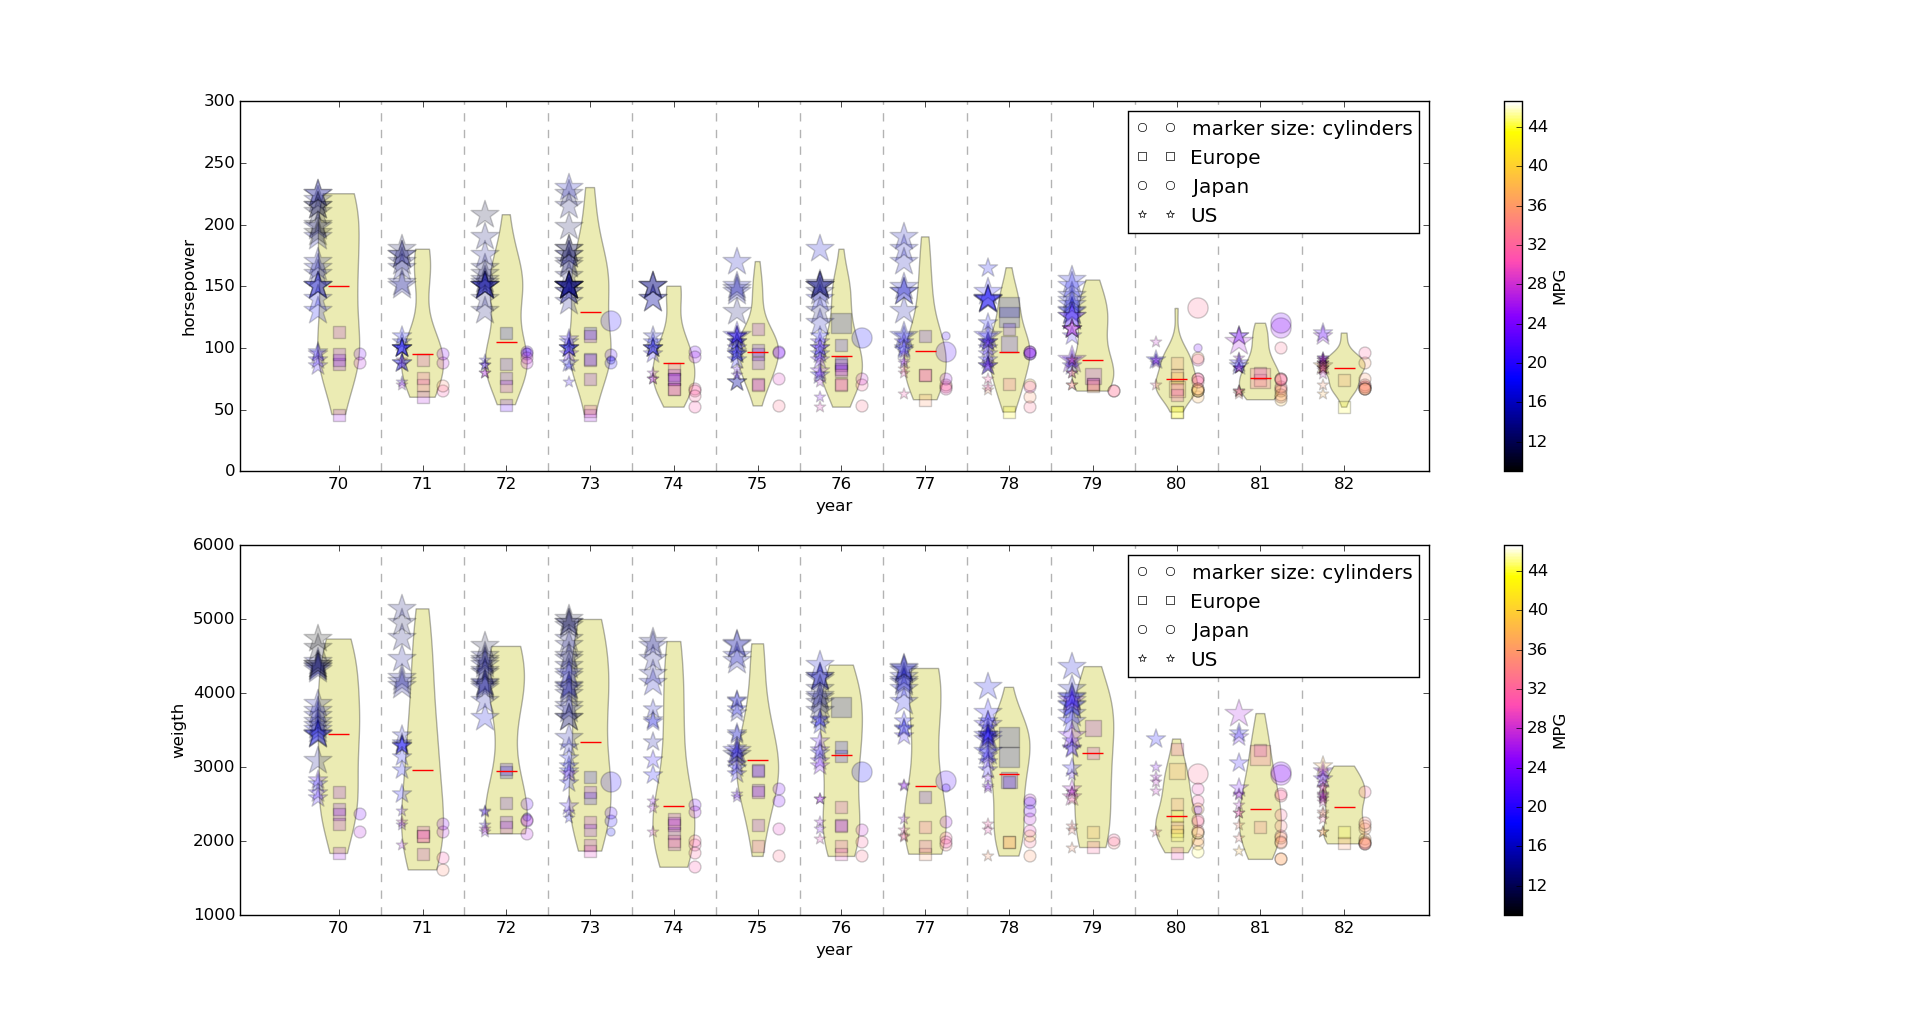
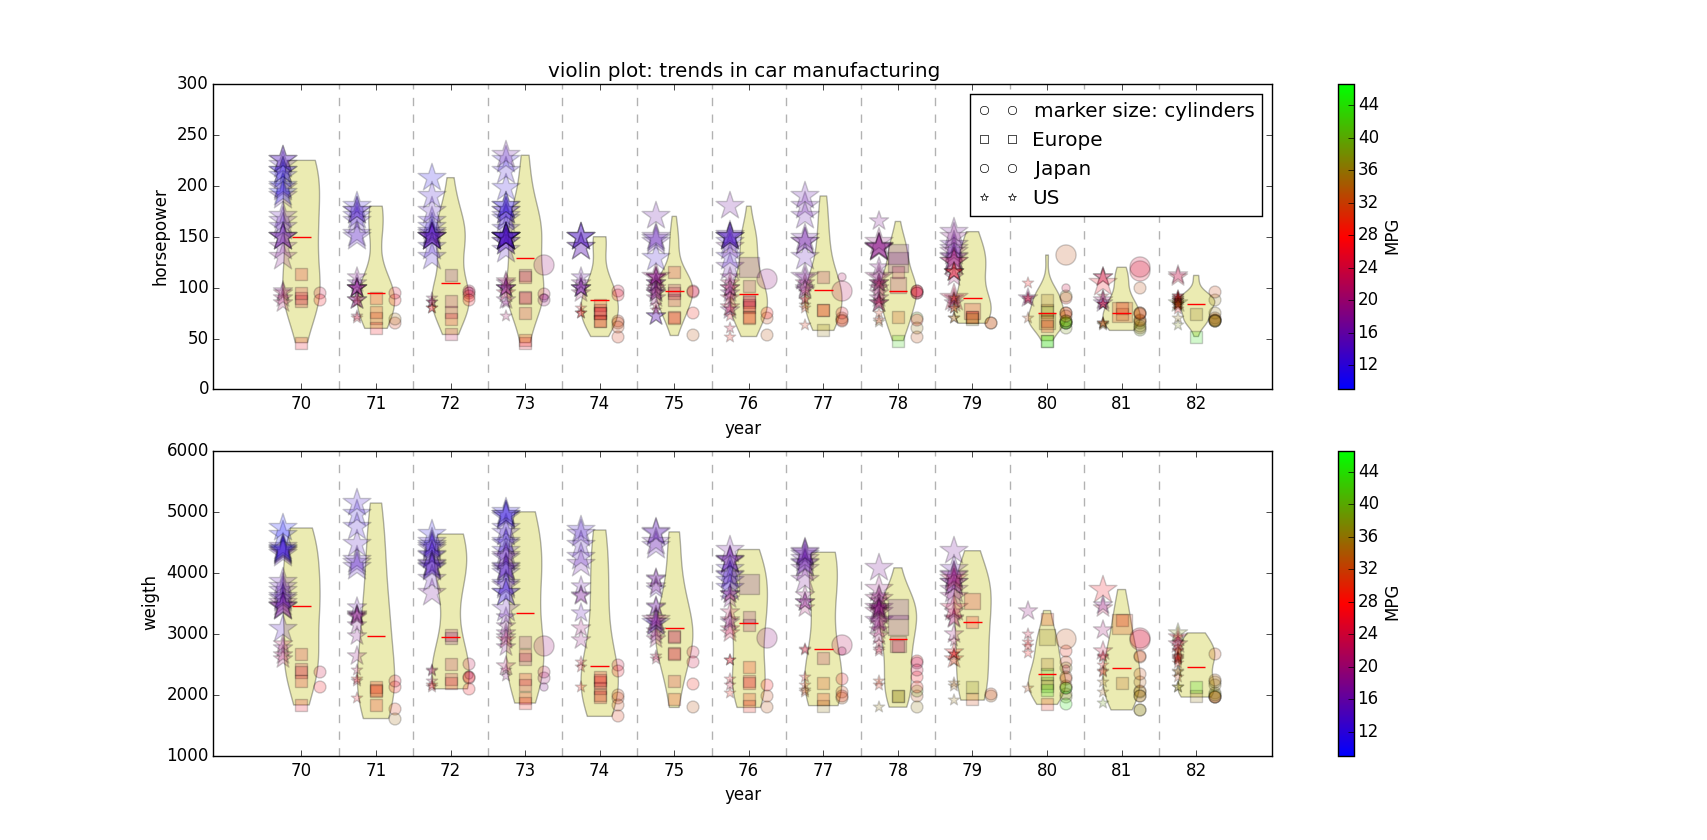
last changes

diff --git a/vis_2d_split_violin.py b/vis_2d_split_violin.py
@@ -6,7 +6,7 @@ import pylab
 import matplotlib.pyplot as plt
 import matplotlib.patches as mpatches
 
-cmap=plt.get_cmap('gnuplot2')
+cmap=plt.get_cmap('brg')
 
 def normalize(m):
     _min = np.min(m)
@@ -48,7 +48,10 @@ def show(df):
     info("show")
     
     fig = plt.figure()
+    
     axs = [ fig.add_subplot(n) for n in [211, 212]]
+
+    axs[0].set_title("violin plot: trends in car manufacturing")
 
     for ax in axs:
         ax.set_xlabel("year")
@@ -86,14 +89,14 @@ def show(df):
             scatter = ax.scatter(xs[i], ys[i], s=s[i],c=c[i],alpha=0.2,marker=m)
         cbar = plt.colorbar(mappable,ax=ax)
         cbar.set_label("MPG")
-        circle = plt.Line2D(range(1), range(1), color="white", marker='o', markerfacecolor="white")
-        
-        mobjs = []
-        for m in markers_specs().values():
-            mobj = plt.Line2D(range(1), range(1), color="white", marker=m, markerfacecolor="white")
-            mobjs.append(mobj)
-        
-        ax.legend([circle]+mobjs,['marker size: cylinders']+markers_specs().keys())
 
+    circle = plt.Line2D(range(1), range(1), color="white", marker='o', markerfacecolor="white")
+        
+    mobjs = []
+    for m in markers_specs().values():
+        mobj = plt.Line2D(range(1), range(1), color="white", marker=m, markerfacecolor="white")
+        mobjs.append(mobj)
+        
+    axs[0].legend([circle]+mobjs,['marker size: cylinders']+markers_specs().keys())
     info("end.")
     pylab.show()

diff --git a/vis_2d_split.py b/vis_2d_split.py
@@ -84,16 +84,18 @@ def show(df):
         #ax.violinplot(violin_data, years_uniq,showmedians=True,showextrema=False,points=1000,bw_method="silverman")
         for i,m in enumerate(markers):
             scatter = ax.scatter(xs[i], ys[i], s=s[i],c=c[i],alpha=0.2,marker=m)
+
         cbar = plt.colorbar(mappable,ax=ax)
         cbar.set_label("MPG")
-        circle = plt.Line2D(range(1), range(1), color="white", marker='o', markerfacecolor="white")
+
+    circle = plt.Line2D(range(1), range(1), color="white", marker='o', markerfacecolor="white")
         
-        mobjs = []
-        for m in markers_specs().values():
-            mobj = plt.Line2D(range(1), range(1), color="white", marker=m, markerfacecolor="white")
-            mobjs.append(mobj)
+    mobjs = []
+    for m in markers_specs().values():
+        mobj = plt.Line2D(range(1), range(1), color="white", marker=m, markerfacecolor="white")
+        mobjs.append(mobj)
         
-        ax.legend([circle]+mobjs,['marker size: cylinders']+markers_specs().keys())
+    axs[0].legend([circle]+mobjs,['marker size: cylinders']+markers_specs().keys())
 
     info("end.")
     pylab.show()
